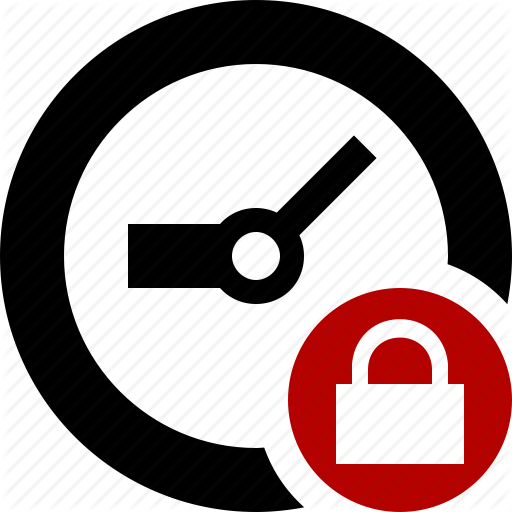
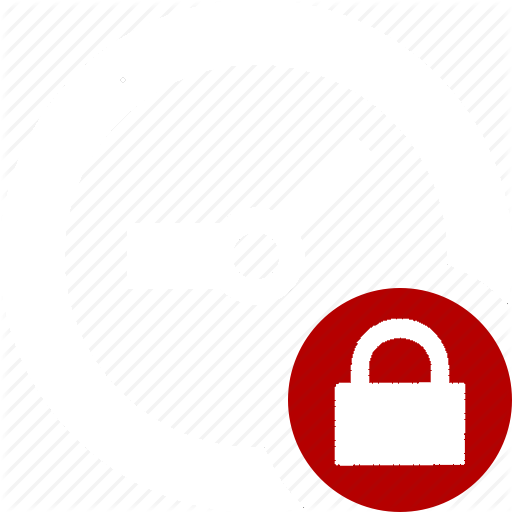
Swap image for time lock

diff --git a/src/components/rvc.vue b/src/components/rvc.vue
@@ -11,9 +11,9 @@
                 <v-switch @change="toggle" v-model="isActive"></v-switch>
             </div>
             <div v-else class="lock-wrapper">
-                <img class="time-lock" src="/lock.svg" />
+                <img class="time-lock" src="/time_lock.png" />
             </div>
-                <div v-if="closed">Risig tid på dygnet för att dammsuga. Aktiveras igen klockan 10:00.</div> 
+                <div v-if="closed">Aktiveras igen klockan 09:00.</div> 
                 <v-btn class="action-item" :disabled="rvc.mode === 'standby'" :class="{ warning: true }" @click="toggle({ 'mode': 'standby' })">PAUSA</v-btn>
                 <v-btn class="action-item" :disabled="rvc.charging" :class="{ primary: true }" @click="toggle({ 'mode': 'chargego' })">LADDA</v-btn>
                 <div class="rvc-details">
@@ -29,7 +29,6 @@
 import { updateRvc } from '../rest/rest.resource.js';
 import { mapGetters } from 'vuex';
 import { isOutsideOperationalHours } from '../utils/rvc-util.js';
-const schedule = require('node-schedule');
 const CronJob = require('cron').CronJob;
 
 
@@ -64,7 +63,7 @@ export default {
         },
         initializeCronJobs() {
             const ctx = this;
-            const closingJob = new CronJob('1 1 19 * * *', function(time) {
+            const closingJob = new CronJob('1 1 21 * * *', function(time) {
                 ctx.closed = true;
                 console.log('Closing RVC');
             }, null, true, 'Europe/Stockholm');
@@ -121,8 +120,8 @@ export default {
 }
 
 .time-lock {
-    width: 30px;
-    height: 30px;
+    width: 60px;
+    height: 60px;
 }
 
 .switch-wrapper {
@@ -135,6 +134,7 @@ export default {
     display: flex;
     align-items: center;
     justify-content: center;
+    margin-top: 20px;
     margin-bottom: 20px;
 }
 

diff --git a/src/utils/rvc-util.js b/src/utils/rvc-util.js
@@ -5,5 +5,5 @@ export const isOutsideOperationalHours = (() => {
     const date = new Date(); 
     const now = date.getHours() * 60 + date.getMinutes();
     console.log({ start, end, now });
-    return now >= start && now >= end;
+    return now <= start || now >= end;
 })();
